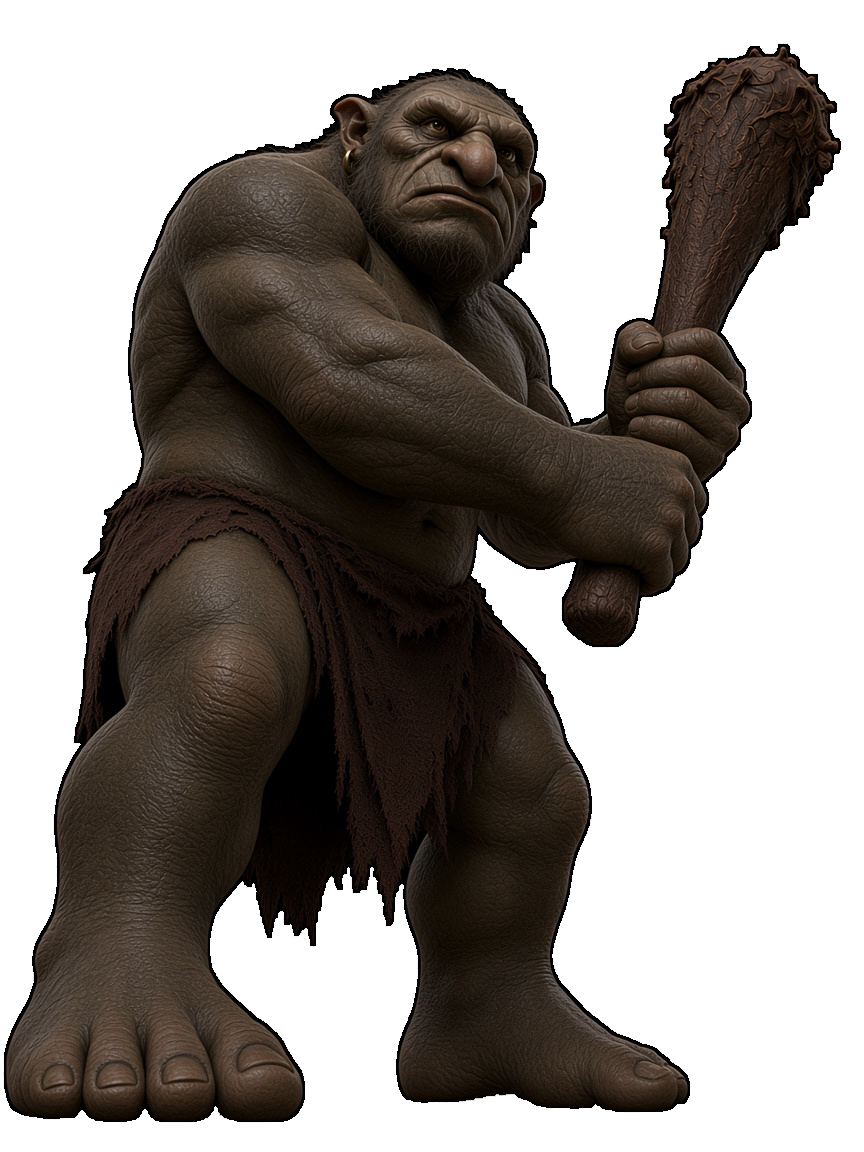
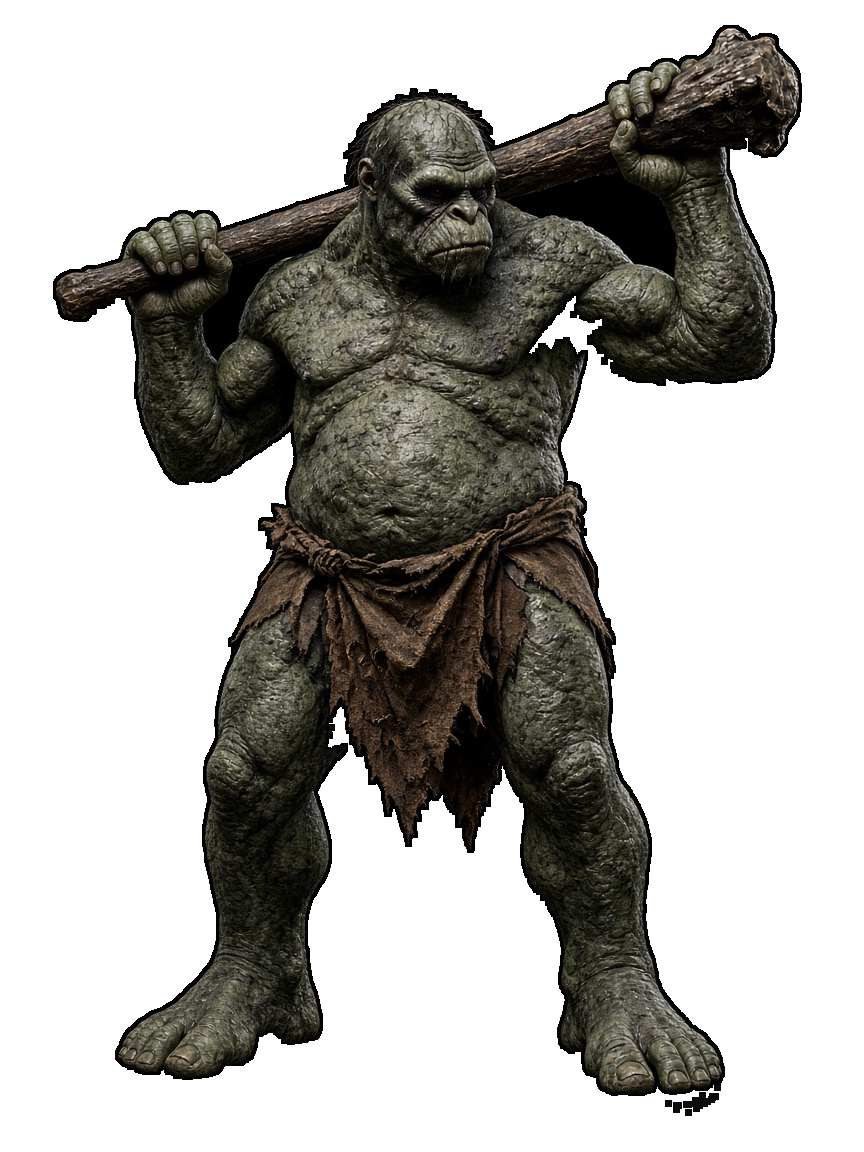
ゴブリンとトロールを前の絵に頼らず描き直す。

diff --git a/index.html b/index.html
@@ -9763,7 +9763,7 @@
       },
       {
         name: "ゴブリン",
-        image: "enemy-goblin.png?v=12",
+        image: "enemy-goblin.png?v=13",
         tier: 1,
         rank: "雑魚",
         stature: "small",
@@ -9828,7 +9828,7 @@
       },
       {
         name: "トロール",
-        image: "enemy-troll.png?v=6",
+        image: "enemy-troll.png?v=7",
         tier: 2,
         rank: "普通",
         stature: "huge",
@@ -10945,11 +10945,11 @@
     // 絵の余白。見える体の高さを自分に合わせるときに使う。
     const FOE_INK = {
       "enemy-slime.png": { w: 864, h: 1152, top: 88, bottom: 64, left: 29, right: 857 },
-      "enemy-goblin.png": { w: 864, h: 1152, top: 79, bottom: 34, left: 25, right: 836 },
+      "enemy-goblin.png": { w: 864, h: 1152, top: 50, bottom: 41, left: 87, right: 735 },
       "enemy-kobold.png": { w: 864, h: 1152, top: 27, bottom: 15, left: 144, right: 704 },
       "enemy-minotaur.png": { w: 864, h: 1152, top: 50, bottom: 75, left: 67, right: 853 },
       "enemy-dragon.png": { w: 864, h: 1152, top: 120, bottom: 150, left: 27, right: 863 },
-      "enemy-troll.png": { w: 864, h: 1152, top: 43, bottom: 30, left: 3, right: 840 },
+      "enemy-troll.png": { w: 864, h: 1152, top: 25, bottom: 36, left: 53, right: 801 },
       "enemy-beggar.png": { w: 864, h: 1152, top: 30, bottom: 32, left: 94, right: 718 },
       "enemy-hades.png": { w: 864, h: 1152, top: 84, bottom: 131, left: 41, right: 857 },
     };
@@ -16414,9 +16414,9 @@
             <h3>敵</h3>
             <div class="ref-grid">
               ${sheetFig("enemy-slime.png?v=9", "スライム", "enemy-ref")}
-              ${sheetFig("enemy-goblin.png?v=12", "ゴブリン", "enemy-ref")}
+              ${sheetFig("enemy-goblin.png?v=13", "ゴブリン", "enemy-ref")}
               ${sheetFig("enemy-kobold.png?v=6", "コボルド", "enemy-ref")}
-              ${sheetFig("enemy-troll.png?v=6", "トロール", "enemy-ref")}
+              ${sheetFig("enemy-troll.png?v=7", "トロール", "enemy-ref")}
               ${sheetFig("enemy-minotaur.png?v=11", "ミノタウロス", "enemy-ref")}
               ${sheetFig("enemy-dragon.png?v=7", "ちびドラゴン", "enemy-ref")}
               ${sheetFig("enemy-death-dragon.png?v=1", "デスドラゴン", "enemy-ref")}
